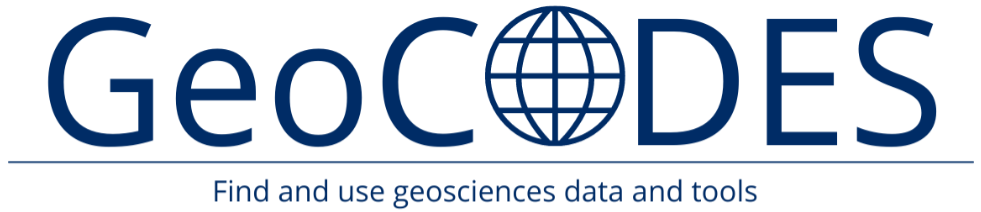
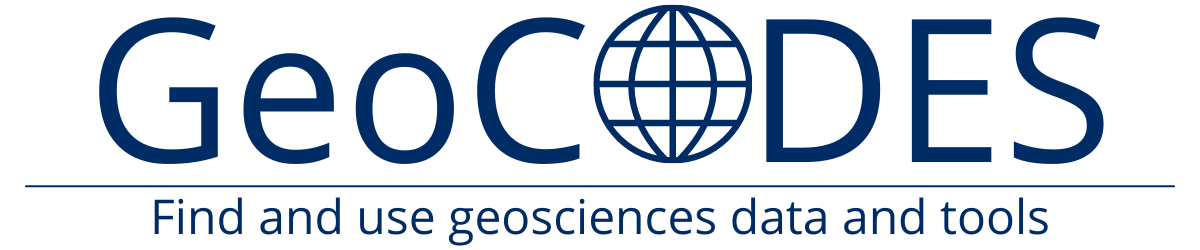
nolog on main+txt-tag4details

diff --git a/alpha/website/dataset.html b/alpha/website/dataset.html
@@ -60,7 +60,7 @@
         <input style="visibility: hidden" id="nn" type="number" min="5" max="200" step="5" value="20"/>
     </form>
     <div class="navbar-text font-weight-bold">
-        GeoCODES <span class="font-weight-normal font-italic"> a schema.org/Dataset search</span>
+        <span class="font-weight-normal font-italic"> Find and use geoscience data and tools</span>
     </div>
     <div class="collapse navbar-collapse" id="navbarSupportedContent">
 

diff --git a/alpha/website/landing.html b/alpha/website/landing.html
@@ -64,7 +64,7 @@
 
         <div class="co " >
 						<p> <br> &nbsp <p> <br> &nbsp
-						<a href="https://www.earthcube.org/geocodes"  target="_blank"><img src="images/GeoCODESnl.png" height=66 /></a>
+						<a href="https://www.earthcube.org/geocodes"  target="_blank"><img src="images/GeoCODESnl.png" height=90 /></a>
         </div>
 						<div> <p> <br> &nbsp <p> <br> &nbsp <p> &nbsp </div>
 
